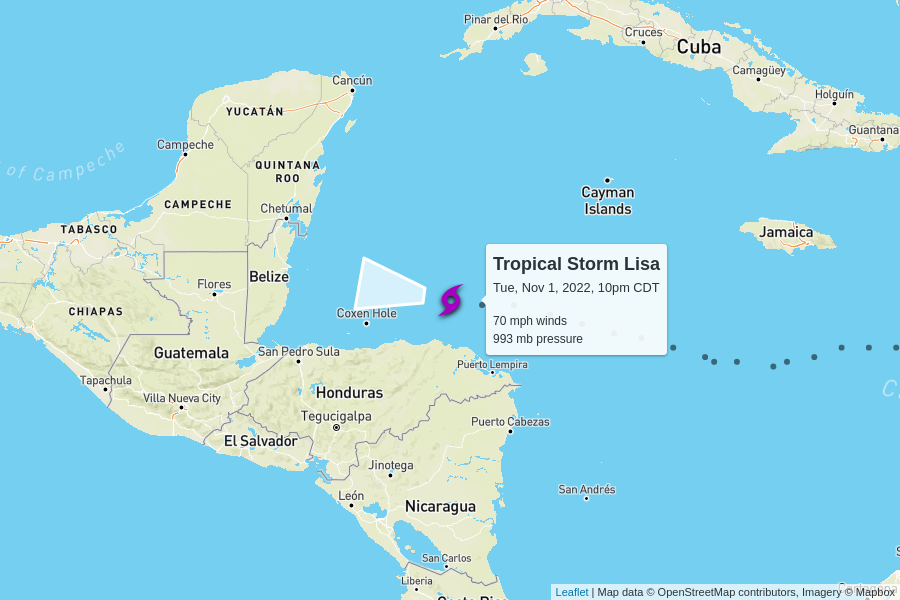
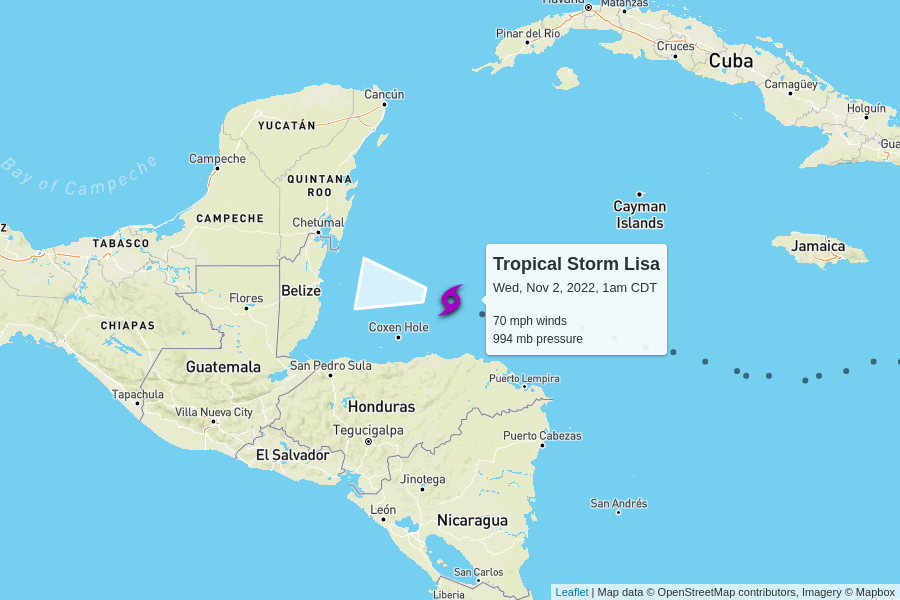
automatic update

diff --git a/docs/index.html b/docs/index.html
@@ -100,7 +100,7 @@
         <td colspan="6" class="storm category-0" >
           <h2>
             Tropical Storm Lisa
-            <p class="updated">last updated <span data-time>2022-11-02T03:00:00.000Z</span></p>
+            <p class="updated">last updated <span data-time>2022-11-02T06:00:00.000Z</span></p>
           </h2>
         </td>
       </tr>
@@ -116,7 +116,7 @@
       <tr>
         <td class="spacer"></td>
         <td>70 mph</td>
-        <td>993 mb</td>
+        <td>994 mb</td>
         <td>
           15 mph to the west
           <br/>
